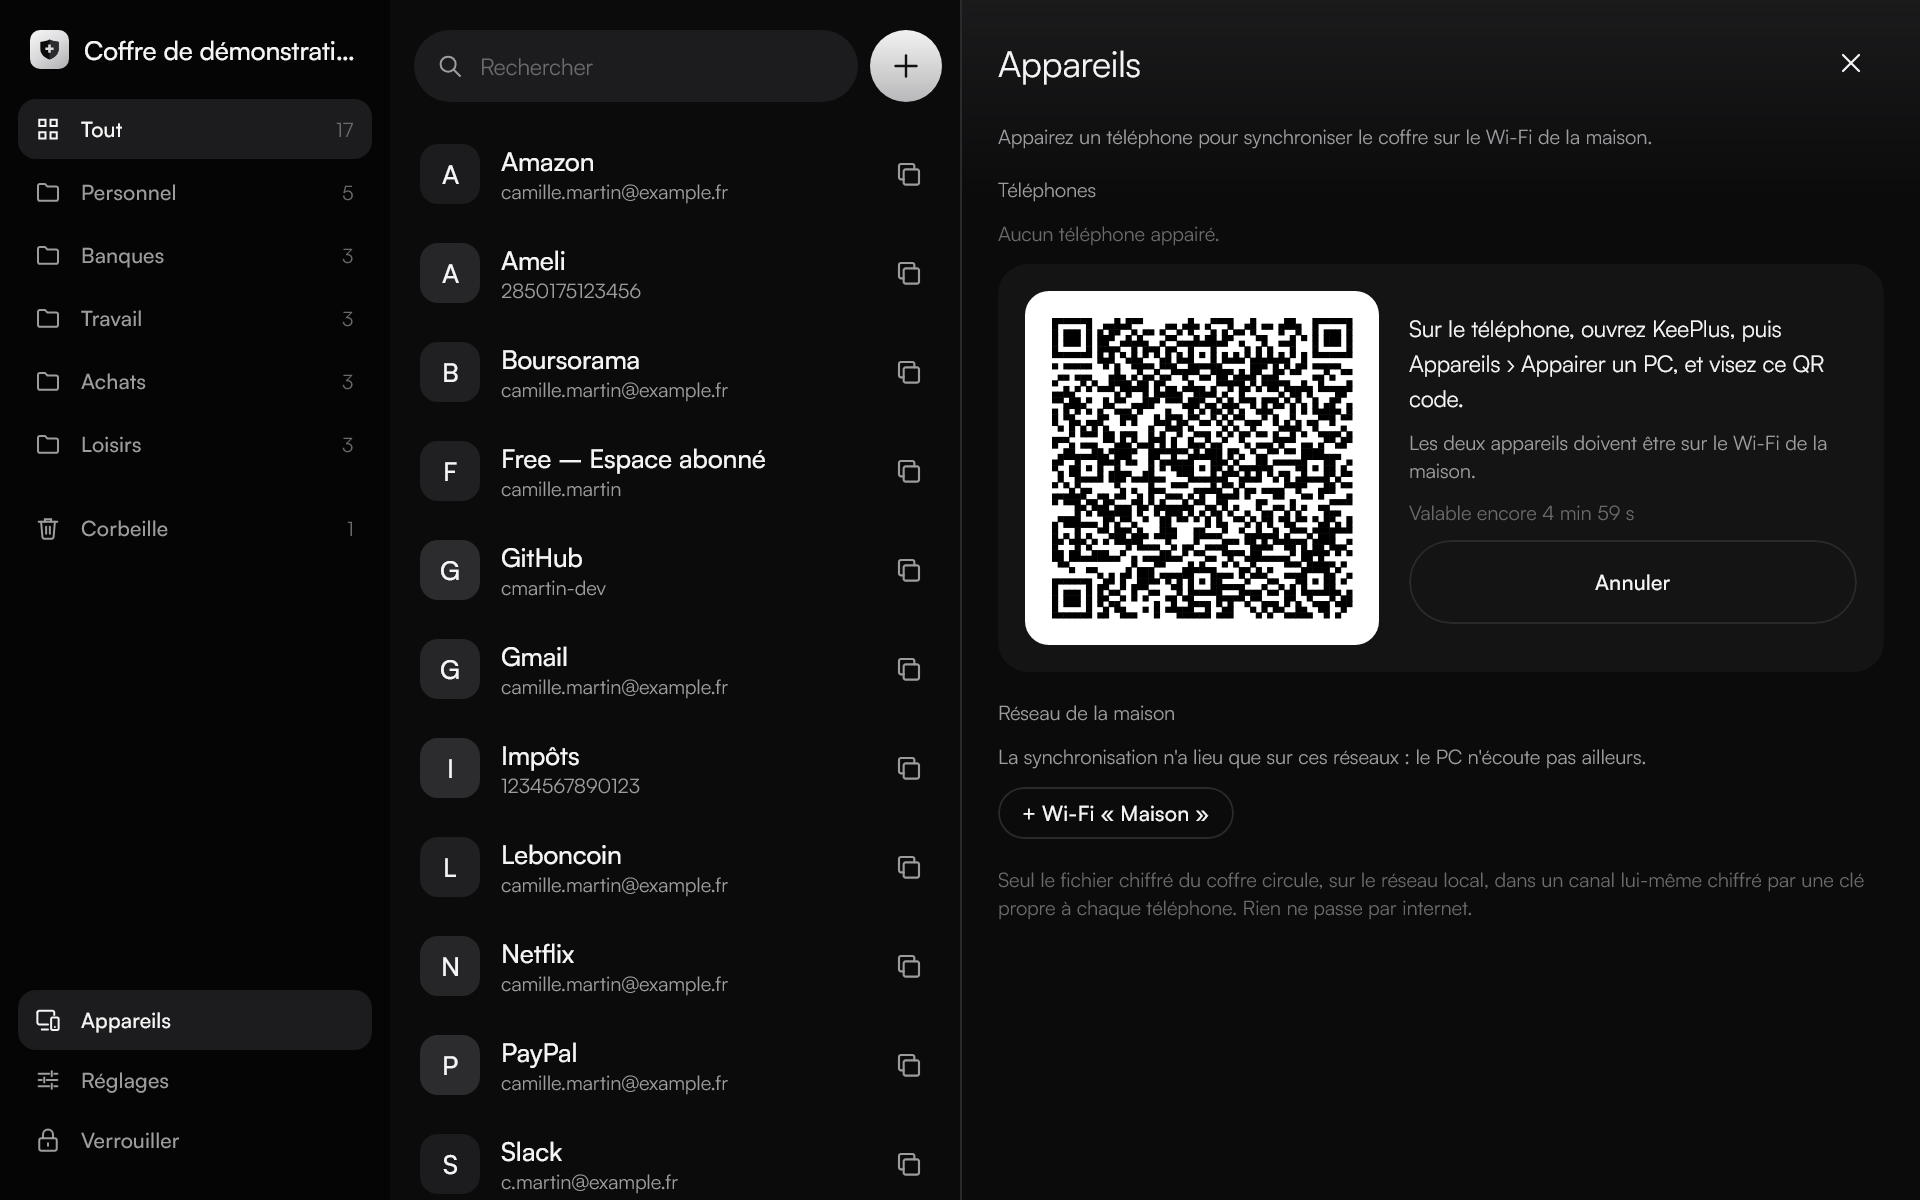
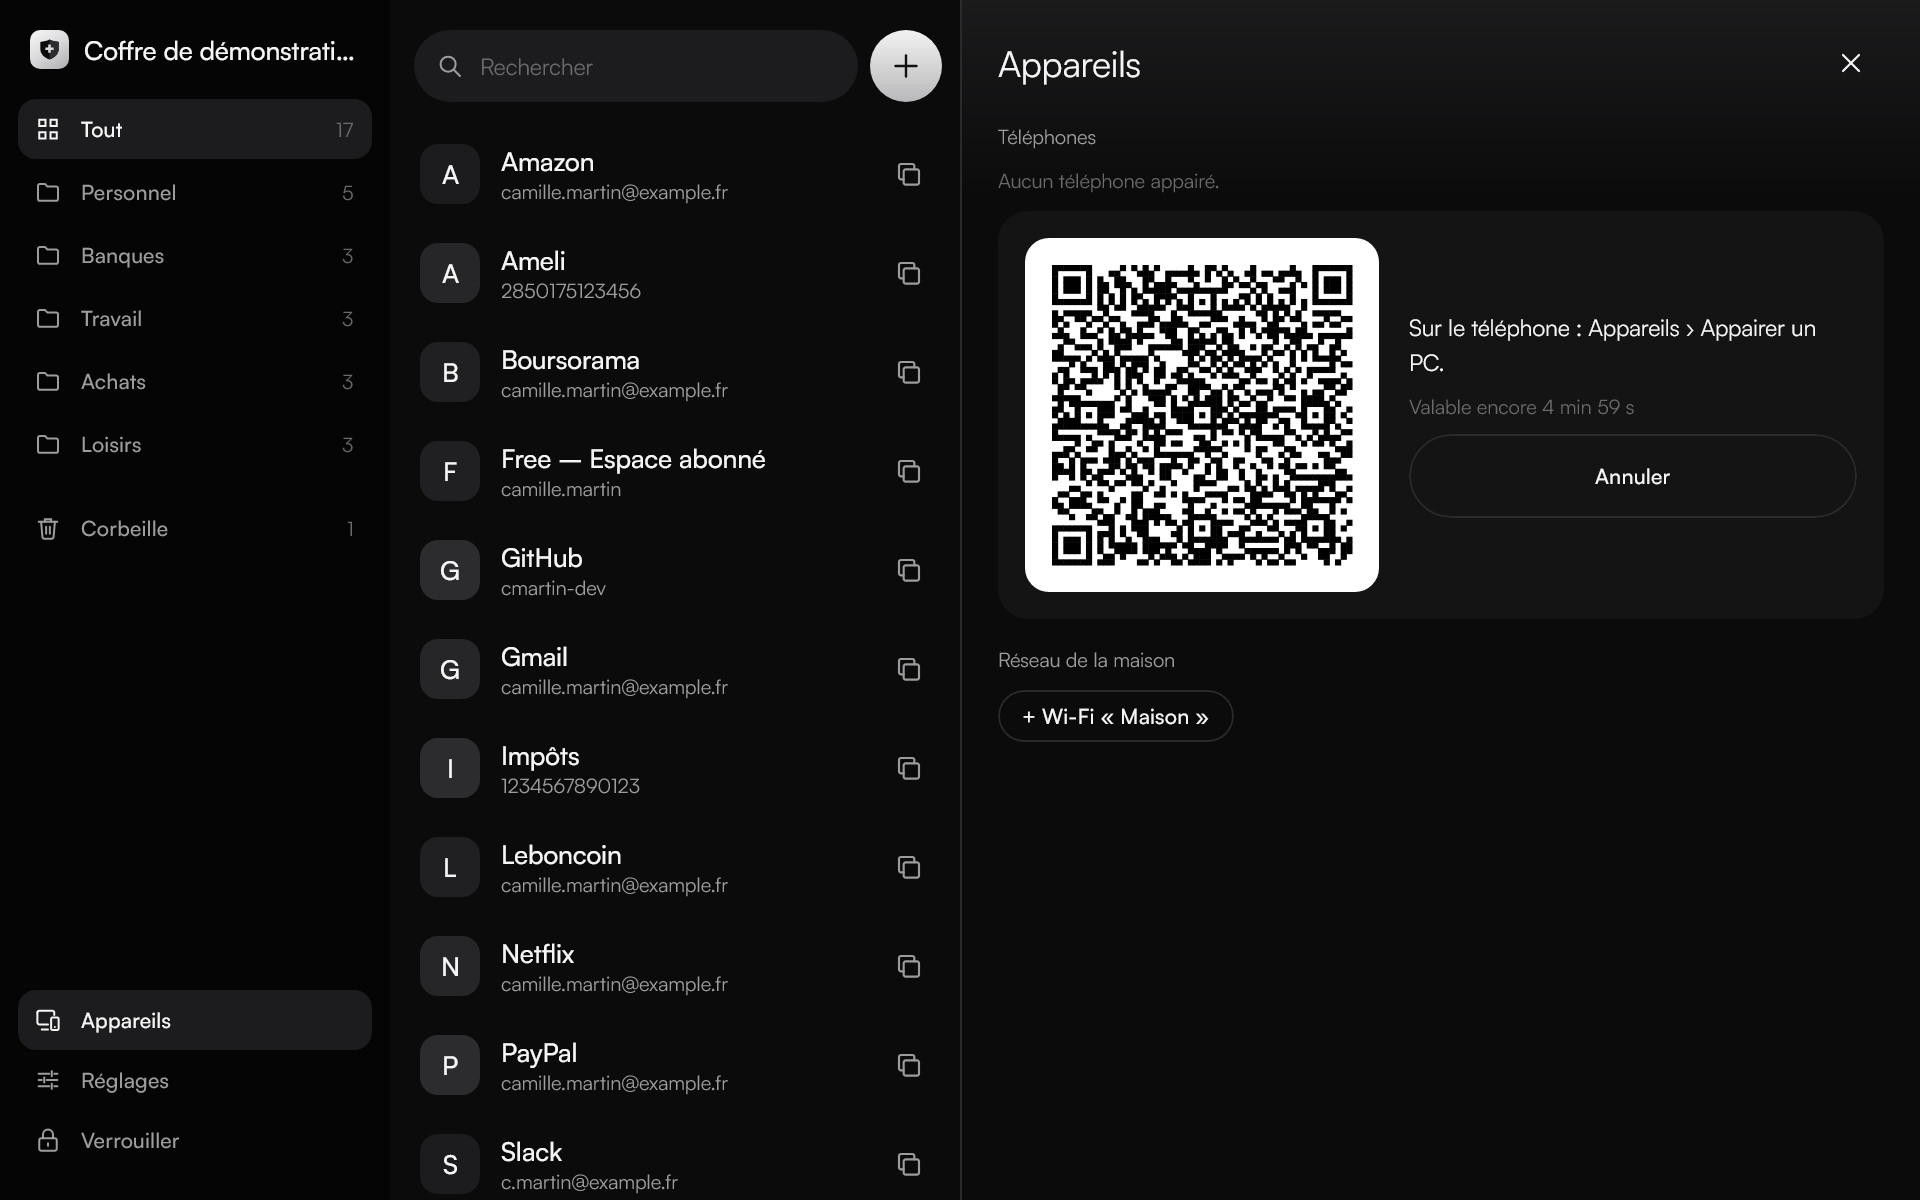
style(menus): menus sans sous-titres ni explications
Réglages et Appareils (téléphone et PC) : les phrases d'explication et la
section « À propos » disparaissent, les libellés sont raccourcis (Après
inactivité, En arrière-plan, Effacé après, Active/Inactive…), les états
de la synchronisation tiennent en quelques mots ; listes vides signalées
(« Aucun réseau. »). Capture du README de l'appairage mise à jour.

diff --git a/ui/src/commonMain/kotlin/fr/maubin/keeplus/ui/screens/SettingsScreen.kt b/ui/src/commonMain/kotlin/fr/maubin/keeplus/ui/screens/SettingsScreen.kt
@@ -92,15 +92,14 @@ fun SettingsScreen(
 		}
 
 		SettingsSection("Verrouillage automatique") {
-			BasicText("Après une période sans aucun geste", style = vType.body)
+			BasicText("Après inactivité", style = vType.body)
 			Choices(kIdleChoices, vSettings.idleMinutes, { "$it min" }) { inController.updateSettings(vSettings.copy(idleMinutes = it)) }
-			BasicText("Quand l'appli passe en arrière-plan (ou la fenêtre est réduite)", style = vType.body)
+			BasicText("En arrière-plan", style = vType.body)
 			Choices(kHiddenChoices, vSettings.hiddenSeconds, { if (it == 0) "Aussitôt" else if (it < 60) "$it s" else "${it / 60} min" }) { inController.updateSettings(vSettings.copy(hiddenSeconds = it)) }
-			BasicText("Un délai laisse le temps d'aller coller un mot de passe dans une autre appli.", style = vType.bodySmall)
 		}
 
 		SettingsSection("Presse-papiers") {
-			BasicText("Un secret copié est effacé après", style = vType.body)
+			BasicText("Effacé après", style = vType.body)
 			Choices(kClipboardChoices, vSettings.clipboardSeconds, { "$it s" }) { inController.updateSettings(vSettings.copy(clipboardSeconds = it)) }
 		}
 
@@ -108,10 +107,7 @@ fun SettingsScreen(
 		{
 			var vReady by remember { mutableStateOf(inController.biometricReady) }			// empreinte active
 			SettingsSection("Empreinte") {
-				BasicText(
-					if (vReady) "Le coffre se déverrouille par l'empreinte." else "L'empreinte n'est pas active : elle sera proposée après un déverrouillage par mot de passe.",
-					style = vType.body
-				)
+				BasicText(if (vReady) "Active" else "Inactive", style = vType.body)
 				if (vReady) GhostButton("Désactiver l'empreinte", { inController.disableBiometric(); inController.offerBiometricAgain(); vReady = false })
 				else TextLink("Proposer l'empreinte au prochain déverrouillage", { inController.offerBiometricAgain() })
 			}
@@ -122,9 +118,8 @@ fun SettingsScreen(
 			SettingsSection("Mot de passe maître") { MasterPasswordForm(inController) }
 
 			SettingsSection("Sauvegardes") {
-				BasicText("Une copie du coffre chiffré est faite avant la première modification de chaque jour. Elle s'ouvre avec le mot de passe maître qu'avait le coffre ce jour-là.", style = vType.bodySmall)
 				val vBackups = remember(inController.screen) { inController.backups() }			// sauvegardes
-				if (vBackups.isEmpty()) BasicText("Aucune sauvegarde pour l'instant.", style = vType.bodySmall.copy(color = KeeColors.textFaint))
+				if (vBackups.isEmpty()) BasicText("Aucune sauvegarde.", style = vType.bodySmall.copy(color = KeeColors.textFaint))
 				for (vBackup in vBackups)
 				{
 					Row(
@@ -144,23 +139,17 @@ fun SettingsScreen(
 		inController.updates?.let { vUpdates ->
 			var vMessage by remember { mutableStateOf<String?>(null) }							// résultat de la vérification
 			SettingsSection("Mises à jour") {
-				BasicText("Version installée : ${vUpdates.version ?: "inconnue (version de développement)"}", style = vType.body)
-				BasicText("Chercher une nouvelle version au lancement", style = vType.bodySmall)
+				BasicText("Version ${vUpdates.version ?: "de développement"}", style = vType.body)
 				Row(horizontalArrangement = Arrangement.spacedBy(8.dp)) {
 					FilterPill("Au lancement", vSettings.updates) { inController.updateSettings(vSettings.copy(updates = true)) }
 					FilterPill("Jamais", !vSettings.updates) { inController.updateSettings(vSettings.copy(updates = false)) }
 				}
 				vMessage?.let { BasicText(it, style = vType.bodySmall) }
 				GhostButton("Vérifier maintenant", { vMessage = null; vUpdates.checkNow { vMessage = it } })
-				BasicText("Les versions sont publiées sur GitHub ; seule l'adresse IP de l'appareil est connue de GitHub lors de la vérification.", style = vType.bodySmall.copy(color = KeeColors.textFaint))
 			}
 		}
 
 		inExtra?.let { vExtra -> Column(verticalArrangement = Arrangement.spacedBy(22.dp)) { vExtra() } }
-
-		SettingsSection("À propos") {
-			BasicText("KeePlus — coffre au format KeePass (KDBX 4, Argon2id, AES-256), sans cloud ni compte.", style = vType.bodySmall)
-		}
 	}
 	vRestore?.let { vBackup ->
 		ConfirmDialog(
@@ -207,7 +196,6 @@ private fun MasterPasswordForm(inController: AppController)
 		GhostButton("Changer le mot de passe maître", { vOpen = true; vResult = null })
 		return
 	}
-	BasicText("Les autres appareils demanderont le nouveau mot de passe à leur prochain déverrouillage.", style = vType.bodySmall)
 	SecretField(vCurrent, "Mot de passe actuel", inImeAction = ImeAction.Next)
 	SecretField(vNew, "Nouveau mot de passe", inImeAction = ImeAction.Next)
 	SecretField(vConfirm, "Confirmez le nouveau mot de passe", inError = vProblem?.startsWith("Les deux") == true)

diff --git a/desktop/src/main/kotlin/fr/maubin/keeplus/desktop/DevicesPanel.kt b/desktop/src/main/kotlin/fr/maubin/keeplus/desktop/DevicesPanel.kt
@@ -89,7 +89,7 @@ fun DevicesPanel(
 			BasicText("Appareils", Modifier.weight(1f), style = vType.headline)
 			IconAction(LineIcons.Close, "Fermer", inOnClose, inTint = KeeColors.text)
 		}
-		BasicText(statusText(vState.running, vState.onHome, vState.phones.isNotEmpty(), vState.networks), style = vType.bodySmall)
+		statusText(vState.running, vState.onHome, vState.phones.isNotEmpty(), vState.networks)?.let { BasicText(it, style = vType.bodySmall) }
 		ErrorLine(vState.error)
 
 		Section("Téléphones") {
@@ -116,8 +116,7 @@ fun DevicesPanel(
 				) {
 					QrCode(vOffer.encode(), 200.dp, "QR code d'appairage")
 					Column(Modifier.weight(1f), verticalArrangement = Arrangement.spacedBy(10.dp)) {
-						BasicText("Sur le téléphone, ouvrez KeePlus, puis Appareils › Appairer un PC, et visez ce QR code.", style = vType.body)
-						BasicText("Les deux appareils doivent être sur le Wi-Fi de la maison.", style = vType.bodySmall)
+						BasicText("Sur le téléphone : Appareils › Appairer un PC.", style = vType.body)
 						val vLeft = ((vOffer.expires - vNow) / 1000).coerceAtLeast(0)							// secondes restantes
 						BasicText("Valable encore ${vLeft / 60} min ${(vLeft % 60).toString().padStart(2, '0')} s", style = vType.bodySmall.copy(color = KeeColors.textFaint))
 						GhostButton("Annuler", { vScope.launch(Dispatchers.IO) { inSync.cancelPairing() } })
@@ -132,7 +131,7 @@ fun DevicesPanel(
 		}
 
 		Section("Réseau de la maison") {
-			BasicText("La synchronisation n'a lieu que sur ces réseaux : le PC n'écoute pas ailleurs.", style = vType.bodySmall)
+			if (vState.home.isEmpty() && vState.networks.isEmpty()) BasicText("Aucun réseau.", style = vType.bodySmall.copy(color = KeeColors.textFaint))
 			FlowRow(horizontalArrangement = Arrangement.spacedBy(8.dp), verticalArrangement = Arrangement.spacedBy(8.dp)) {
 				for (vNetwork in vState.home)
 				{
@@ -144,11 +143,6 @@ fun DevicesPanel(
 				}
 			}
 		}
-
-		BasicText(
-			"Seul le fichier chiffré du coffre circule, sur le réseau local, dans un canal lui-même chiffré par une clé propre à chaque téléphone. Rien ne passe par internet.",
-			style = vType.bodySmall.copy(color = KeeColors.textFaint)
-		)
 	}
 	vRemove?.let { vPhone ->
 		ConfirmDialog(
@@ -162,7 +156,7 @@ fun DevicesPanel(
 }
 
 /*
-	État de l'écoute, en clair.
+	État de l'écoute, en clair ; null tant qu'aucun téléphone n'est appairé (la liste vide le dit).
 	inRunning  : serveur à l'écoute
 	inOnHome   : PC sur le réseau de la maison
 	inPaired   : au moins un téléphone appairé
@@ -173,13 +167,13 @@ private fun statusText(
 	inOnHome   : Boolean,
 	inPaired   : Boolean,
 	inNetworks : List<NetworkId>
-): String =
+): String? =
 	when
 	{
-		!inPaired                 -> "Appairez un téléphone pour synchroniser le coffre sur le Wi-Fi de la maison."
-		inRunning && inOnHome     -> "À l'écoute sur le réseau de la maison : le téléphone se synchronise quand il est sur le même Wi-Fi."
-		inNetworks.isEmpty()      -> "Réseau du PC illisible : la synchronisation attend."
-		else                      -> "Ce PC n'est pas sur un réseau de la maison : la synchronisation attend. Ajoutez le réseau actuel ci-dessous s'il est bien chez vous."
+		!inPaired                 -> null
+		inRunning && inOnHome     -> "À l'écoute sur le réseau de la maison."
+		inNetworks.isEmpty()      -> "Réseau du PC illisible."
+		else                      -> "Hors du réseau de la maison."
 	}
 
 /*

diff --git a/app/src/main/java/fr/maubin/keeplus/DevicesScreen.kt b/app/src/main/java/fr/maubin/keeplus/DevicesScreen.kt
@@ -101,7 +101,7 @@ fun DevicesScreen(
 			BasicText("Appareils", Modifier.weight(1f).padding(start = 4.dp), style = vType.headline)
 		}
 		Row(verticalAlignment = Alignment.CenterVertically) {
-			BasicText(statusText(vStatus), Modifier.weight(1f), style = vType.bodySmall.copy(color = if (vStatus is PhoneStatus.Failed) KeeColors.danger else KeeColors.textMuted))
+			BasicText(statusText(vStatus).orEmpty(), Modifier.weight(1f), style = vType.bodySmall.copy(color = if (vStatus is PhoneStatus.Failed) KeeColors.danger else KeeColors.textMuted))
 			if (vPeers.enabled && vPeers.pcs.isNotEmpty()) IconAction(LineIcons.Sync, "Synchroniser maintenant", { inSync.syncSoon() }, inTint = KeeColors.text)
 		}
 
@@ -125,7 +125,7 @@ fun DevicesScreen(
 		}
 
 		Section("Réseau de la maison") {
-			BasicText("Le téléphone ne se synchronise que sur ces Wi-Fi. Ils sont ajoutés à l'appairage.", style = vType.bodySmall)
+			if (vPeers.home.isEmpty()) BasicText("Aucun réseau.", style = vType.bodySmall.copy(color = KeeColors.textFaint))
 			FlowRow(horizontalArrangement = Arrangement.spacedBy(8.dp), verticalArrangement = Arrangement.spacedBy(8.dp)) {
 				for (vNetwork in vPeers.home)
 				{
@@ -139,10 +139,6 @@ fun DevicesScreen(
 				FilterPill("Activée", vPeers.enabled) { inSync.setEnabled(true) }
 				FilterPill("Désactivée", !vPeers.enabled) { inSync.setEnabled(false) }
 			}
-			BasicText(
-				"Seul le fichier chiffré du coffre circule, sur le Wi-Fi de la maison, dans un canal lui-même chiffré. Rien ne passe par internet. Si le coffre a changé des deux côtés, la fusion se fait au déverrouillage.",
-				style = vType.bodySmall.copy(color = KeeColors.textFaint)
-			)
 		}
 	}
 	if (vScan)
@@ -177,18 +173,18 @@ fun DevicesScreen(
 }
 
 /*
-	État de la synchronisation, en clair.
+	État de la synchronisation, en clair ; null sans PC appairé (la liste vide le dit).
 	inStatus : état
 */
-private fun statusText(inStatus: PhoneStatus): String =
+private fun statusText(inStatus: PhoneStatus): String? =
 	when (inStatus)
 	{
 		PhoneStatus.Disabled  -> "Synchronisation désactivée."
-		PhoneStatus.Unpaired  -> "Appairez un PC pour partager le coffre sur le Wi-Fi de la maison."
+		PhoneStatus.Unpaired  -> null
 		is PhoneStatus.Away   -> inStatus.reason
 		PhoneStatus.Working   -> "Synchronisation en cours…"
 		is PhoneStatus.Idle   -> "À jour avec ${inStatus.pcs.joinToString(", ")}."
-		PhoneStatus.Pending   -> "Le coffre a changé des deux côtés : la fusion se fera au déverrouillage."
+		PhoneStatus.Pending   -> "Fusion au prochain déverrouillage."
 		is PhoneStatus.Failed -> inStatus.message
 	}
 

diff --git a/app/src/main/java/fr/maubin/keeplus/AndroidSync.kt b/app/src/main/java/fr/maubin/keeplus/AndroidSync.kt
@@ -250,10 +250,10 @@ class AndroidSync private constructor(
 				{
 					!vPeers.enabled                                -> PhoneStatus.Disabled
 					vPeers.pcs.isEmpty()                           -> PhoneStatus.Unpaired
-					!vNet.onWifi                                   -> PhoneStatus.Away("Pas de Wi-Fi : synchronisation au retour à la maison.")
-					!vNet.unmetered                                -> PhoneStatus.Away("Wi-Fi facturé à l'usage : pas de synchronisation.")
+					!vNet.onWifi                                   -> PhoneStatus.Away("Pas de Wi-Fi.")
+					!vNet.unmetered                                -> PhoneStatus.Away("Wi-Fi facturé à l'usage.")
 					vNet.wifi == null                              -> PhoneStatus.Away(if (!vNet.permission) "Autorisez la localisation pour reconnaître le Wi-Fi de la maison." else "Nom du Wi-Fi illisible : activez la localisation du téléphone.")
-					!isHomeNetwork(listOf(vNet.wifi), vPeers.home) -> PhoneStatus.Away("Hors du réseau de la maison (Wi-Fi « ${vNet.wifi.value} ») : synchronisation au retour.")
+					!isHomeNetwork(listOf(vNet.wifi), vPeers.home) -> PhoneStatus.Away("Hors du réseau de la maison (« ${vNet.wifi.value} »).")
 					else                                           ->
 					{
 						fStatus.value = PhoneStatus.Working
@@ -333,7 +333,7 @@ class AndroidSync private constructor(
 			!fEngine.peers().enabled      -> PhoneStatus.Disabled
 			fEngine.peers().pcs.isEmpty() -> PhoneStatus.Unpaired
 			fEngine.pending().isNotEmpty() -> PhoneStatus.Pending
-			else                          -> PhoneStatus.Away("En attente de la première synchronisation.")
+			else                          -> PhoneStatus.Away("Pas encore synchronisé.")
 		}
 
 	companion object

diff --git a/app/src/main/java/fr/maubin/keeplus/PhoneSettings.kt b/app/src/main/java/fr/maubin/keeplus/PhoneSettings.kt
@@ -59,7 +59,6 @@ fun PhoneSettings(inStore: VaultStore)
 	AutofillSettings()
 	Column(verticalArrangement = Arrangement.spacedBy(12.dp)) {
 		BasicText("Export", style = vType.bodySmall)
-		BasicText("Copie du coffre chiffré dans un fichier de votre choix, à garder hors du téléphone. Il s'ouvre avec le mot de passe maître.", style = vType.bodySmall)
 		vResult?.let { BasicText(it, style = vType.body.copy(color = KeeColors.success)) }
 		ErrorLine(vError)
 		GhostButton("Exporter le coffre", { vResult = null; vError = null; vExport.launch("KeePlus-${LocalDate.now()}.kdbx") })
@@ -85,18 +84,15 @@ private fun AutofillSettings()
 		BasicText("Auto-remplissage", style = vType.bodySmall)
 		if (vEnabled)
 		{
-			BasicText("Actif : touchez un champ de connexion, KeePlus propose vos comptes.", style = vType.body.copy(color = KeeColors.success))
-			BasicText("Pour l'arrêter : réglages d'Android, « Mots de passe et saisie automatique ».", style = vType.bodySmall)
+			BasicText("Actif", style = vType.body.copy(color = KeeColors.success))
 		}
 		else
 		{
-			BasicText("KeePlus remplit l'identifiant et le mot de passe dans les applis et les sites, après votre empreinte. Rien n'est rempli sans votre appui.", style = vType.bodySmall)
 			GhostButton("Activer l'auto-remplissage", {
 				runCatching {
 					vContext.startActivity(Intent(Settings.ACTION_REQUEST_SET_AUTOFILL_SERVICE, Uri.parse("package:${vContext.packageName}")))
 				}
 			})
 		}
-		BasicText("Dans Chrome ou Brave, choisissez aussi « Saisie automatique avec un autre service » (Paramètres › Saisie automatique et mots de passe › Services de saisie automatique). Firefox n'a rien à régler.", style = vType.bodySmall.copy(color = KeeColors.textFaint))
 	}
 }

diff --git a/desktop/src/main/kotlin/fr/maubin/keeplus/desktop/DesktopSettings.kt b/desktop/src/main/kotlin/fr/maubin/keeplus/desktop/DesktopSettings.kt
@@ -39,11 +39,10 @@ fun DesktopSettings(inBackups: File?)
 		BasicText("Démarrage", style = vType.bodySmall)
 		if (WindowsStartup.exe == null)
 		{
-			BasicText("Le démarrage avec Windows est proposé une fois KeePlus installé.", style = vType.bodySmall)
+			BasicText("Disponible une fois KeePlus installé.", style = vType.body)
 		}
 		else
 		{
-			BasicText("Lancer KeePlus avec Windows, dans la zone de notification : le téléphone peut se synchroniser sans ouvrir la fenêtre.", style = vType.body)
 			Row(horizontalArrangement = Arrangement.spacedBy(8.dp)) {
 				for (vChoice in listOf(true, false))
 				{
